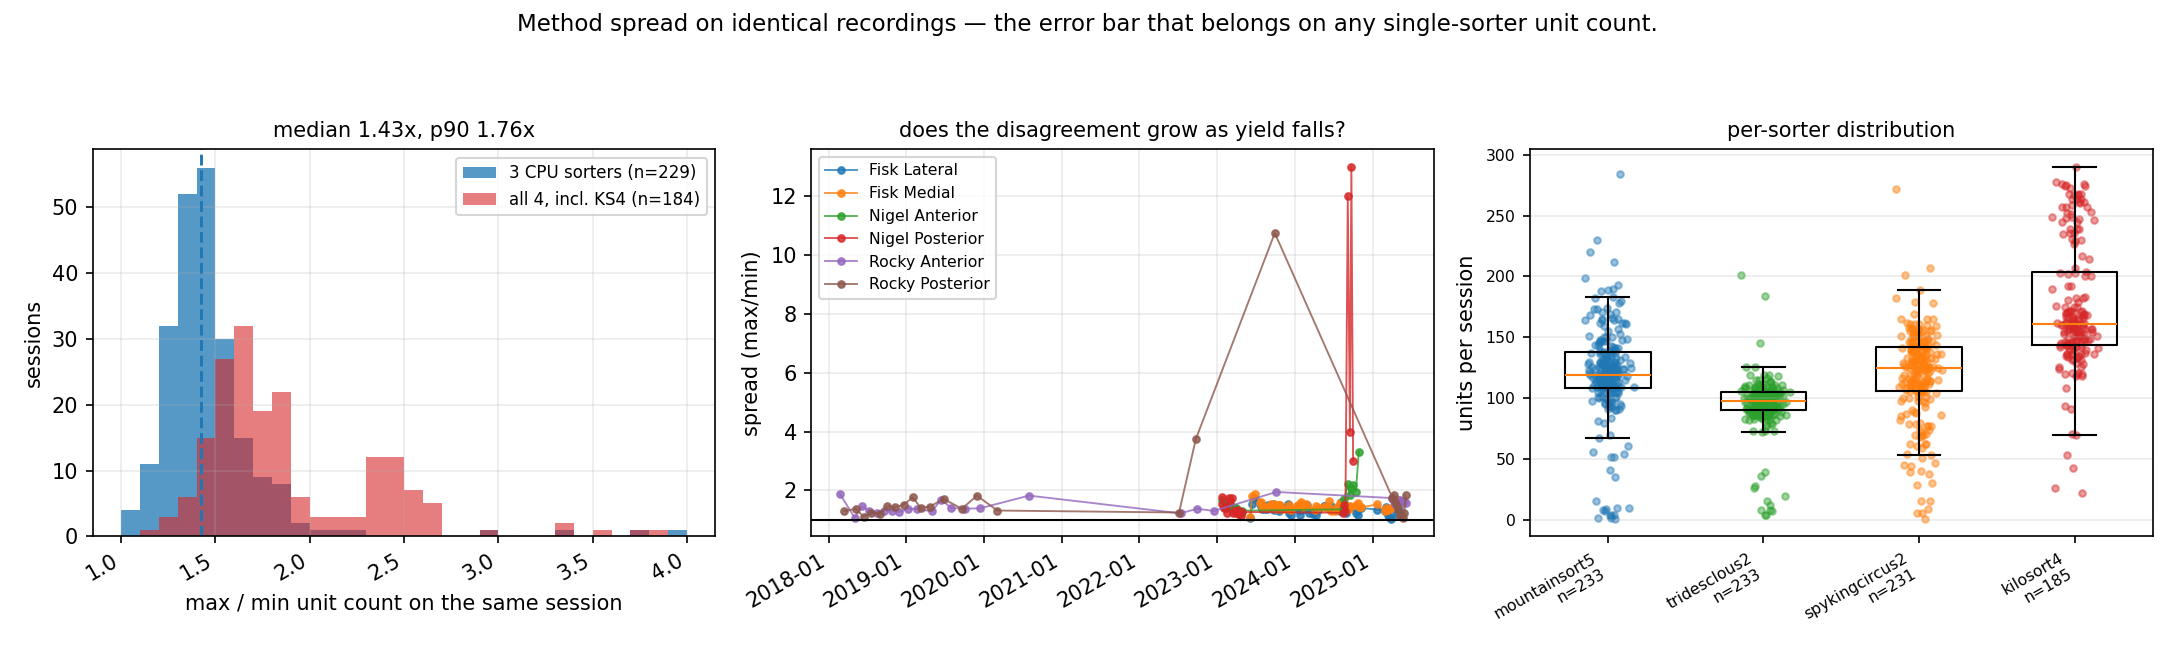
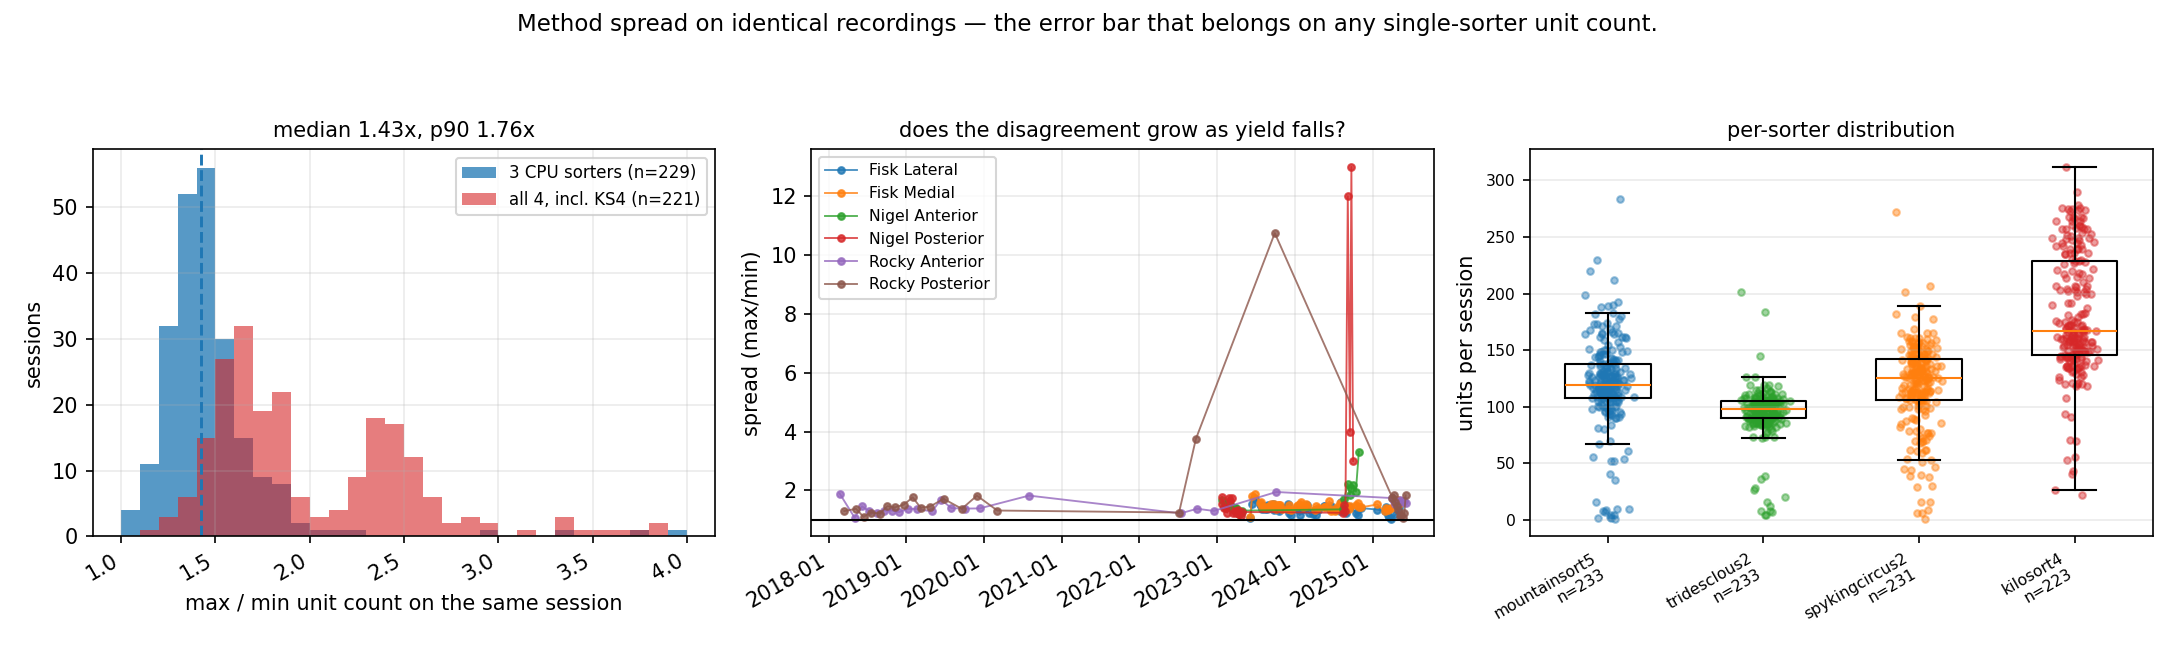
Correct the four-sorter numbers the larger corpus changed
The Kilosort4 backfill took the corpus from 184 to 221 four-sorter sessions,
and two published findings did not survive the extra 127 Fisk sessions.

Per-subject KS4 ratio: the number quoted (1.30 / 2.08 / 2.05) reproduced under
neither natural definition. fig_subject() in scratch_ns5_figures.py is now the
reproducible version, paired inside the session -- kilosort4 / mean(other
three) per session, then the median, which holds tissue, amplifier and day
fixed. Corrected to Fisk 1.33, Nigel 2.04, Rocky 1.98, with IQRs. The
conclusion is unchanged and slightly firmer: Nigel and Rocky agree at ~2.0
with quartiles that do not overlap Fisk. M5's right panel adds that the ratio
does not drift across an implant's life, which rules out array degradation.

NEV recovery: the "+0.08 for MountainSort5, the one usable case" claim is
overturned. Pooled median lift is -0.001 with 31% of sessions above chance.
It clears chance on Rocky (+0.063) and Nigel (+0.037) and not on Fisk
(-0.002) -- so the one apparent success was subject-specific. No sorter's
frac_nev_recovered is usable as validation.

Also propagates the resolved drive fix (C: 0/43 -> 38/43) into the flow HTML,
which still carried "every Kilosort4 result for Rocky is a statement about
2025".

diff --git a/docs/recqual_flow.html b/docs/recqual_flow.html
@@ -912,7 +912,7 @@ const FLOW = [
         "898 jobs across 238 sessions on Fisk, Nigel and Rocky. Sorters run one session at a time in a killable child, because a run once sat **31 hours** on a single deadlocked call with no timeout and no output."
       ],
       evidence: [["jobs", "944 across 238 sessions"],
-                 ["with all four sorters", "184 sessions"],
+                 ["with all four sorters", "221 sessions"],
                  ["per-sorter timeout", "3600 s, raised to 5400 s for oversized sessions"]]
     },
     {
@@ -923,34 +923,38 @@ const FLOW = [
         "Any single-sorter unit count should be read as carrying that much method uncertainty before anything else is considered."
       ],
       evidence: [["3 CPU sorters", "1.43x median, 1.76x p90, 229 sessions"],
-                 ["all four", "1.74x median, 2.52x p90, 184 sessions"],
+                 ["all four", "1.84x median, 2.62x p90, 221 sessions"],
                  ["tridesclous2 / mountainsort5", "median 98 / 119 units"],
-                 ["spykingcircus2 / kilosort4", "median 125 / 161 units"]]
+                 ["spykingcircus2 / kilosort4", "median 125 / 167 units"]]
     },
     {
       type: "finding", title: "Kilosort4 over-splits far more on Nigel and Rocky than on Fisk",
-      claim: "2.08x and 1.73x the other three sorters, against 1.30x on Fisk.",
+      claim: "2.04x and 1.98x the other three sorters, against 1.33x on Fisk.",
       detail: [
-        "This was a one-session-per-animal hint until the backfill filled in 104 Nigel and Rocky sessions. It now rests on 40 and 20 four-sorter sessions rather than one each, and the direction held.",
-        "**Two caveats carry weight.** Every number is at `dminx = 32`, so this measures Kilosort4-as-configured rather than Kilosort4. And Rocky's 20 successes are **32% of its 63 attempts** -- a selected subset, so 1.73x is the ratio among the sessions that survived the misconfiguration, not among all of them.",
-        "Failure rates run the same way: Fisk 2%, Nigel 15%, **Rocky 68%**. Of the ten failures whose logs survived the retention fix, five are the geometry error and four are `n_samples < n_clusters` on near-empty channel groups. The other 43 cannot be classified."
+        "This was a one-session-per-animal hint until the backfill filled in Nigel and Rocky. It now rests on 40 and 57 four-sorter sessions rather than one each, the direction held, and the quartiles do not overlap between Fisk and the other two.",
+        "The ratio is **paired inside the session** -- `kilosort4 / mean(other three)` per session, then the median over sessions -- which holds the tissue, the amplifier and the day fixed. Dividing the two subject-level medians instead reads 0.03 to 0.13 higher and compares sessions that are not comparable.",
+        "**One caveat still carries weight.** Every number is at `dminx = 32`, so this measures Kilosort4-as-configured rather than Kilosort4. Rocky's earlier 1.73x came from the 20 sessions that happened to sit on `D:`, all of them 2025; with its history reachable it is 1.98x on 57 sessions spanning 2018 to 2025. And the ratio does **not** drift across an implant's life -- each animal holds its own offset for the whole span, which rules out array degradation as the cause.",
+        "Failure rates flattened once the working-directory bug was gone: Fisk 3 of 128, Nigel 7 of 47, Rocky 5 of 63. Of the failures whose logs survived the retention fix, five are the geometry error and four are `n_samples < n_clusters` on near-empty channel groups."
       ],
-      evidence: [["Fisk", "124 sessions, spread 1.65, KS4 1.30x"],
-                 ["Nigel", "40 sessions, spread 2.43, KS4 2.08x"],
-                 ["Rocky", "20 sessions, spread 2.39, KS4 1.73x"]],
+      evidence: [["Fisk", "124 sessions, spread 1.65, KS4 1.33x (IQR 1.25-1.42)"],
+                 ["Nigel", "40 sessions, spread 2.43, KS4 2.04x (IQR 1.87-2.17)"],
+                 ["Rocky", "57 sessions, spread 2.44, KS4 1.98x (IQR 1.80-2.25)"],
+                 ["figure", "figures/sorters/M5_subject.png"]],
       links: [["S11.4", "the parameter every one of these depends on"]]
     },
     {
       type: "correction", title: "NEV recovery is not a usable validation metric",
-      claim: "Three of four sorters recover threshold crossings at chance.",
+      claim: "All four recover threshold crossings at chance, once Fisk is in.",
       detail: [
-        "`frac_nev_recovered` looks like a validation: what share of the NSP's own detections did the sorter find again. Against its own chance level — the same comparison on shuffled spike times — only **MountainSort5** clears it.",
-        "For the other three the chance level is ~0.98, because NEV crossings are dense enough that an arbitrary spike train lands on them just as well. The metric was being read as agreement when it was measuring density."
+        "`frac_nev_recovered` looks like a validation: what share of the NSP's own detections did the sorter find again. Against its own chance level — the same comparison on shuffled spike times — **none of the four clears it** on the full corpus, and three sit measurably below.",
+        "The chance level runs ~0.98 for three of them, because NEV crossings are dense enough that an arbitrary spike train lands on them just as well. The metric was being read as agreement when it was measuring density.",
+        "**This finding was itself corrected.** On the smaller Nigel/Rocky corpus MountainSort5 read +0.08 and was treated as the one usable case; adding 127 Fisk sessions took it to −0.001. Split by animal it clears chance on Rocky (+0.063) and Nigel (+0.037) and not on Fisk (−0.002). A metric that survives only on the subjects it was developed on is not a validation."
       ],
-      evidence: [["mountainsort5", "0.804 vs 0.724 chance  (+0.08)"],
-                 ["tridesclous2", "0.984 vs 0.980  (+0.004)"],
-                 ["spykingcircus2", "0.971 vs 0.982  (-0.011)"],
-                 ["kilosort4", "0.994 vs 0.996  (-0.002)"]]
+      evidence: [["mountainsort5", "median lift -0.001, 31% of sessions above chance"],
+                 ["kilosort4", "-0.001, 25% above"],
+                 ["tridesclous2", "-0.009, 12% above"],
+                 ["spykingcircus2", "-0.012, 7% above"],
+                 ["chance vs NEV density", "Spearman 0.52 to 0.67 - the mechanism"]]
     },
     {
       type: "constraint", title: "Kilosort4's spatial defaults are Neuropixels geometry",
@@ -969,7 +973,7 @@ const FLOW = [
           detail: [
             "Three Fisk sessions died on `get_data_cpu never found suitable channels` with the GPU at 33% and a 0.98 GB peak — never a memory problem, which was the first diagnosis and the wrong one.",
             "Setting `dminx` from the probe was tried and **reverted**. On one session it removes the over-splitting entirely; on another the session stops running. And the three original failures still fail, so `dminx` was never their cause. More than one parameter is involved.",
-            "Left at Kilosort4's defaults so every KS4 row stays mutually comparable. **The 1.65x and 2.30x/2.56x four-sorter spreads are conditional on `dminx = 32`** and must not be quoted as a property of the sorter."
+            "Left at Kilosort4's defaults so every KS4 row stays mutually comparable. **Every four-sorter spread in this project - 1.65x on Fisk, 2.43x on Nigel, 2.44x on Rocky - is conditional on `dminx = 32`** and must not be quoted as a property of the sorter."
           ],
           evidence: [["20230906-122625-Medial3min", "171 units (1.51x) -> 108 units (0.96x)"],
                      ["20240724-102500-Medial3Min", "141 units -> session fails"],
@@ -981,12 +985,15 @@ const FLOW = [
           detail: [
             "The stock image ships torch 2.7.1+**cu118**, whose compiled architectures stop at `sm_90`. This GPU is `sm_120` with no PTX fallback, so every run died before any computation. Rebuilt against cu128.",
             "Then SI 0.102.3 unpacks exactly 16 values from `get_run_parameters(ops)` while the image shipped kilosort 4.1.7. **SI guards only the lower version bound**, so a too-new sorter passes the check and dies deep with an error that looks like a data problem.",
-            "Then a drive problem, whose first diagnosis was also wrong. The theory was that SI's Docker volume construction fails when the recording and the output sit on different Windows drives. Measured across the corpus it is simpler and worse: containerised Kilosort4 is **0 of 43 on C: and 185 of 195 on D:**, and putting the scratch on C: beside the recording changes nothing. The container is handed a path with the drive letter stripped, so `C:\MyData\...` arrives as `/MyData/...`, which resolves on one drive and not the other. Both mount fine by hand, so this is SI's volume construction rather than Docker file sharing.",
-            "The cost is not the failure count. Rocky's C: sessions span 2017-10 to 2023-10, its entire history; its D: sessions span 2025-04 to 2025-06. **Every Kilosort4 result for Rocky is a statement about 2025**, which bounds the four-sorter comparison far harder than the session count suggests."
+            "Then a drive problem, whose first two diagnoses were also wrong - first 'recording and output on different drives', then 'Kilosort4 cannot read C:'. Measured across the corpus the pattern was **0 of 43 on C: against 185 of 195 on D:**, which read as a drive capability. It was a working-directory coincidence: the container run **succeeds** (`error: false`), and `container_tools.path_to_unix` strips the drive letter, so `C:\MyData\...` is written into the recording JSON as `/MyData/...`. `read_sorter_folder()` re-reads that JSON **on the host**, where Windows resolves a leading-slash path against the **current drive** - and the repo sits on `D:`.",
+            "**Fixed in two lines**: chdir to the recording's drive around the `read_sorter_folder()` call, and restore afterwards. `C:` went from 0 of 43 to **38 of 43**, and the corpus from 184 to **221 four-sorter sessions**. Nothing had to be staged or copied - `docker run -v` could always list all 431 `.ns5`, which is why every mount test came back clean while the runs kept failing.",
+            "The cost was never the failure count but which sessions survived. Rocky's `C:` sessions are its entire history back to 2018; its `D:` sessions are April to June 2025. Until the fix, **every Kilosort4 result for Rocky was a statement about 2025** - and its ratio moved 1.73x to 1.98x once the rest was reachable. A subset selected by an unrelated bug is not a random subset."
           ],
           evidence: [["before", "76 attempts, 0 results"],
-                     ["after, D: drive", "185 of 195"],
-                     ["after, C: drive", "0 of 43, no exceptions"]]
+                     ["after CUDA + API fixes, D: drive", "185 of 195"],
+                     ["after CUDA + API fixes, C: drive", "0 of 43, no exceptions"],
+                     ["after the chdir fix, C: drive", "38 of 43"],
+                     ["corpus", "184 -> 221 four-sorter sessions"]]
         }
       ]
     }

diff --git a/notebooks/scratch_ns5_figures.py b/notebooks/scratch_ns5_figures.py
@@ -14,6 +14,7 @@ the honest error bar on every unit count elsewhere in the project.
     M2_spread      how far apart the sorters land on the same session
     M3_recovery    how much of the NEV's own detection each sorter recovers
     M4_agreement   pairwise, so the disagreement can be attributed
+    M5_subject     the Kilosort4 over-split, per animal and over time
 
 Run from repo root:
 
@@ -258,6 +259,80 @@ def fig_agreement(ok: pd.DataFrame, out: Path) -> pd.DataFrame:
     return pd.DataFrame(rows)
 
 
+# %%
+def fig_subject(ok: pd.DataFrame, out: Path) -> pd.DataFrame:
+    """How much more Kilosort4 splits than the other three, per animal.
+
+    Defined per session and then aggregated, never the other way round: on a
+    session carrying all four sorters, `ks4_ratio = kilosort4 / mean(other
+    three)`. Pairing inside the session holds the tissue, the amplifier and the
+    day fixed, so the only thing varying is the method. Aggregating first
+    (ratio of the two medians) mixes sessions that are not comparable and runs
+    0.03 to 0.13 higher here.
+    """
+    # unit count per session x sorter; only sessions carrying all four count
+    piv = ok.pivot_table(index="stem", columns="sorter", values="n_units",
+                         aggfunc="first")
+    meta = ok.groupby("stem")[["subject", "date"]].first()
+    four = piv.dropna(subset=list(SORTER_COLOR)).join(meta)
+    if four.empty:
+        return pd.DataFrame()
+    others = [s for s in SORTER_COLOR if s != "kilosort4"]
+    four = four.copy()
+    four["ratio"] = four.kilosort4 / four[others].mean(axis=1)
+    four["spread"] = (four[list(SORTER_COLOR)].max(axis=1)
+                      / four[list(SORTER_COLOR)].min(axis=1))
+
+    subjects = sorted(four.subject.unique())
+    fig, axes = plt.subplots(1, 2, figsize=(12.5, 4.4))
+
+    ax = axes[0]
+    rng = np.random.default_rng(11)
+    for i, subj in enumerate(subjects, start=1):
+        v = four.ratio[four.subject == subj]
+        ax.scatter(rng.normal(i, 0.06, len(v)), v, s=15, alpha=0.55,
+                   color="#d62728")
+        ax.plot([i - 0.28, i + 0.28], [v.median()] * 2, color="k", lw=2)
+        ax.text(i + 0.32, v.median(), f"{v.median():.2f}x", fontsize=9,
+                va="center")
+    ax.axhline(1.0, color="0.4", ls="--", lw=1)
+    ax.set_xticks(range(1, len(subjects) + 1))
+    ax.set_xticklabels([f"{s}\nn={(four.subject == s).sum()}"
+                        for s in subjects], fontsize=9)
+    ax.set_ylabel("kilosort4 / mean of other three")
+    ax.set_title("paired within session; dashed line = parity", fontsize=10)
+    ax.grid(alpha=0.25, axis="y")
+
+    # does the over-split drift over an implant's life, or sit at a constant?
+    ax = axes[1]
+    for subj in subjects:
+        g = four[four.subject == subj].sort_values("date")
+        ax.plot(g.date, g.ratio, "o", ms=3.4, alpha=0.6, label=subj)
+    ax.axhline(1.0, color="0.4", ls="--", lw=1)
+    ax.xaxis.set_major_formatter(mdates.DateFormatter("%Y-%m"))
+    ax.set_ylabel("kilosort4 / mean of other three")
+    ax.set_title("the same animal keeps the same offset", fontsize=10)
+    ax.grid(alpha=0.25)
+    ax.legend(fontsize=8)
+    for lab in ax.get_xticklabels():
+        lab.set_rotation(30)
+        lab.set_ha("right")
+
+    fig.suptitle("Kilosort4 splits more on some animals than others "
+                 "— all of it conditional on dminx = 32", fontsize=12)
+    fig.tight_layout(rect=(0, 0, 1, 0.92))
+    fig.savefig(out, dpi=150)
+    plt.close(fig)
+
+    tab = four.groupby("subject").agg(
+        sessions=("ratio", "size"), first=("date", "min"),
+        last=("date", "max"), spread=("spread", "median"),
+        ks4_ratio=("ratio", "median"),
+        q25=("ratio", lambda s: s.quantile(0.25)),
+        q75=("ratio", lambda s: s.quantile(0.75)))
+    return tab.reset_index()
+
+
 def main() -> int:
     FIG.mkdir(parents=True, exist_ok=True)
     d = load()
@@ -295,7 +370,12 @@ def main() -> int:
     ag = fig_agreement(ok, FIG / "M4_agreement.png")
     print(ag.round(3).to_string(index=False))
 
-    print("\n  wrote 4 figures to figures/sorters/")
+    banner("6. Per subject: is the Kilosort4 over-split animal-specific")
+    st = fig_subject(ok, FIG / "M5_subject.png")
+    if len(st):
+        print(st.round(3).to_string(index=False))
+
+    print("\n  wrote 5 figures to figures/sorters/")
     return 0
 
 

diff --git a/docs/notes/sorter_operations.md b/docs/notes/sorter_operations.md
@@ -172,18 +172,28 @@ Kilosort4 now runs everywhere once the working-directory fix landed
 ([[kilosort4_gpu]]): `C:` went from **0 of 43 to 38 of 43**, and the corpus
 carries **221 four-sorter sessions**.
 
-That makes the per-subject comparison real, and it separates cleanly:
+That makes the per-subject comparison real, and it separates cleanly.
+`fig_subject()` in `scratch_ns5_figures.py` is the reproducible version
+(`figures/sorters/M5_subject.png`); the ratio is **paired inside the session**
+— `kilosort4 ÷ mean(other three)` per session, then the median over sessions —
+because the alternative, dividing the two subject-level medians, compares
+sessions that are not comparable and reads 0.03 to 0.13 higher.
 
-| subject | sessions | span | spread | KS4 ÷ others |
-|---|---|---|---|---|
-| Fisk | 124 | 2023-06 → 2025-05 | 1.65 | **1.30** |
-| Nigel | 40 | 2023-01 → 2024-10 | 2.43 | **2.08** |
-| Rocky | 57 | 2018-02 → 2025-06 | 2.44 | **2.05** |
+| subject | sessions | span | spread | KS4 ÷ others | IQR |
+|---|---|---|---|---|---|
+| Fisk | 124 | 2023-06 → 2025-05 | 1.65 | **1.33** | 1.25–1.42 |
+| Nigel | 40 | 2023-01 → 2024-10 | 2.43 | **2.04** | 1.87–2.17 |
+| Rocky | 57 | 2018-02 → 2025-06 | 2.44 | **1.98** | 1.80–2.25 |
 
-Nigel and Rocky agree at ~2.05; Fisk stands apart at 1.30. **Rocky's number
-moved from 1.73 to 2.05 when its history was included** — the earlier figure
-came from the 20 sessions that happened to sit on `D:`, all of them 2025.
-A subset selected by an unrelated bug is not a random subset.
+Nigel and Rocky agree at ~2.0 with non-overlapping quartiles against Fisk's
+1.33, so the animal, not the sorter, sets the size of the over-split. **Rocky's
+number moved from 1.73 to 1.98 when its history was included** — the earlier
+figure came from the 20 sessions that happened to sit on `D:`, all of them
+2025. A subset selected by an unrelated bug is not a random subset.
+
+The right panel of M5 answers the obvious follow-up: the ratio does not drift
+across an implant's life. Each animal holds its own offset from 2018 to 2025,
+which rules out the over-split being a function of how degraded the array is.
 
 Every number here remains conditional on `dminx = 32` (§3b).
 

diff --git a/docs/notes/robustness.md b/docs/notes/robustness.md
@@ -140,6 +140,38 @@ floor.
 **Until then, treat cross-sorter unit counts as uncalibrated.** Within-sorter
 longitudinal trends are unaffected, because the parameter is held constant.
 
+### At corpus scale the chance correction removes the metric entirely
+
+The shards now carry `chance_nev_recovered` — the same match run against
+shuffled spike times — so the artefact above is measurable rather than argued.
+On 233 sessions, per-session lift (observed minus chance), median:
+
+| sorter | lift | sessions above chance |
+|---|---|---|
+| mountainsort5 | **−0.001** | 31% |
+| kilosort4 | −0.001 | 25% |
+| tridesclous2 | −0.009 | 12% |
+| spykingcircus2 | −0.012 | 7% |
+
+**No sorter clears chance pooled**, and three sit measurably below it. An
+earlier read of this table on the smaller Nigel/Rocky corpus put MountainSort5
+at +0.08 and treated it as the one usable case; adding 127 Fisk sessions
+removed it. Split by animal, MountainSort5 clears chance on Rocky (+0.063) and
+Nigel (+0.037) and not on Fisk (−0.002).
+
+The chance level itself rises with NEV density (Spearman 0.52–0.67 against
+event rate across the four sorters), which is the mechanism named above and
+confirms it *within* a subject. It does not explain the between-subject split:
+Fisk has the **lowest** event rate of the three and the **highest** chance
+level for MountainSort5 (0.795 against Nigel's 0.560). Something else about the
+Medial array's NEV is driving it, and the per-channel matcher is still what
+would settle it.
+
+**The operational consequence is unchanged and now firmer:** `frac_nev_recovered`
+must not be quoted as validation for any sorter, on any subject, in its pooled
+form.
+
+
 ---
 
 ## Q2 — Does post-sorting curation help?

diff --git a/docs/notes/kilosort4_gpu.md b/docs/notes/kilosort4_gpu.md
@@ -114,8 +114,8 @@ Both numbers looked like CLAUDE.md's recorded gotcha — *"Kilosort4 over-splits
 on sparse arrays"* — showing up on first contact, and at the time that is what
 they were taken for.
 
-**That reading is now qualified.** On 184 four-sorter sessions the effect is
-real but strongly subject-dependent (Fisk 1.30×, Nigel 2.08×, Rocky 1.73×), and
+**That reading is now qualified.** On 221 four-sorter sessions the effect is
+real but strongly subject-dependent (Fisk 1.33×, Nigel 2.04×, Rocky 1.98×), and
 every one of those numbers is conditional on `dminx = 32`, Kilosort4's
 Neuropixels horizontal-spacing default. Changing that one parameter moves a
 session's count 37% and can stop it running altogether. See
